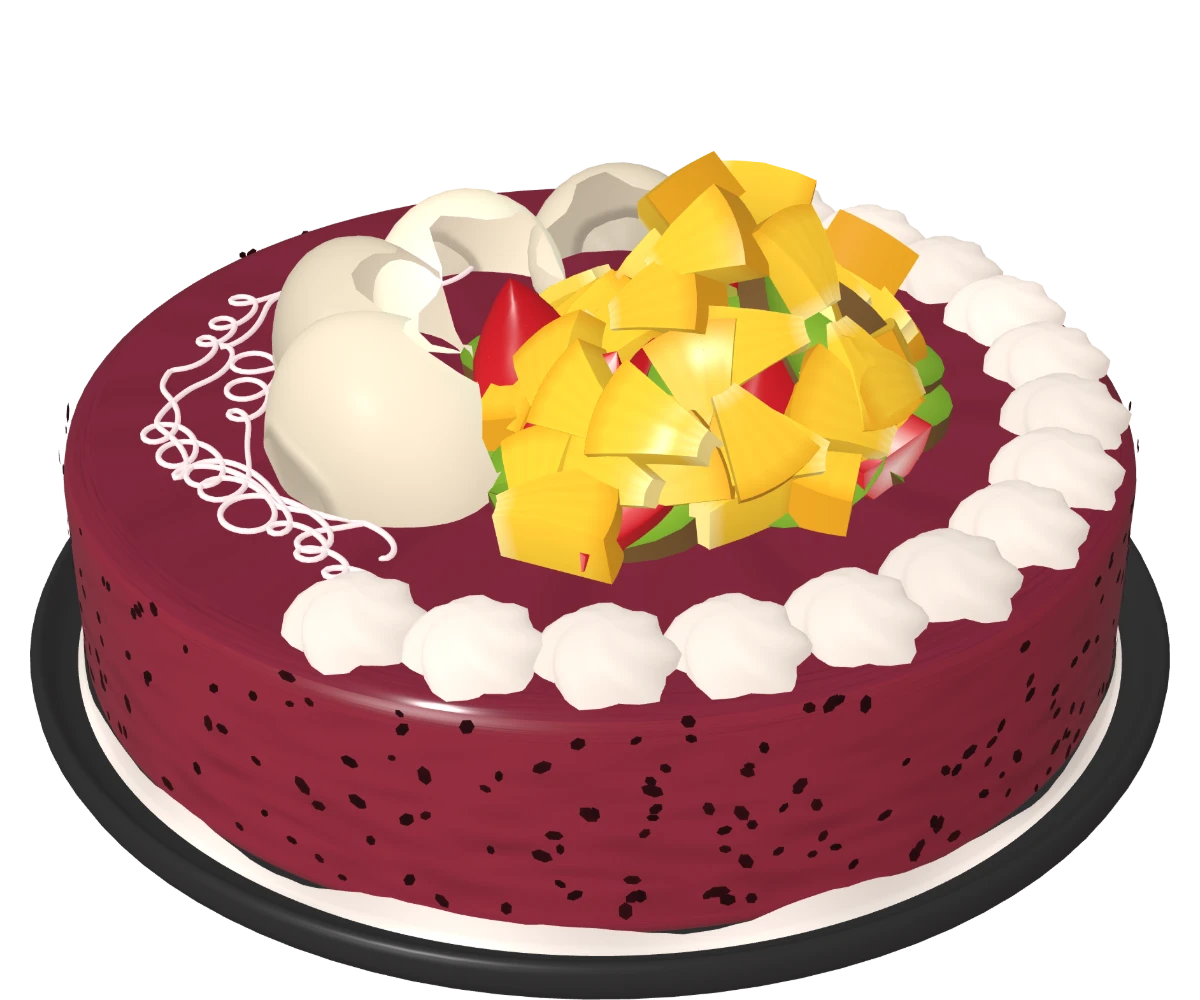
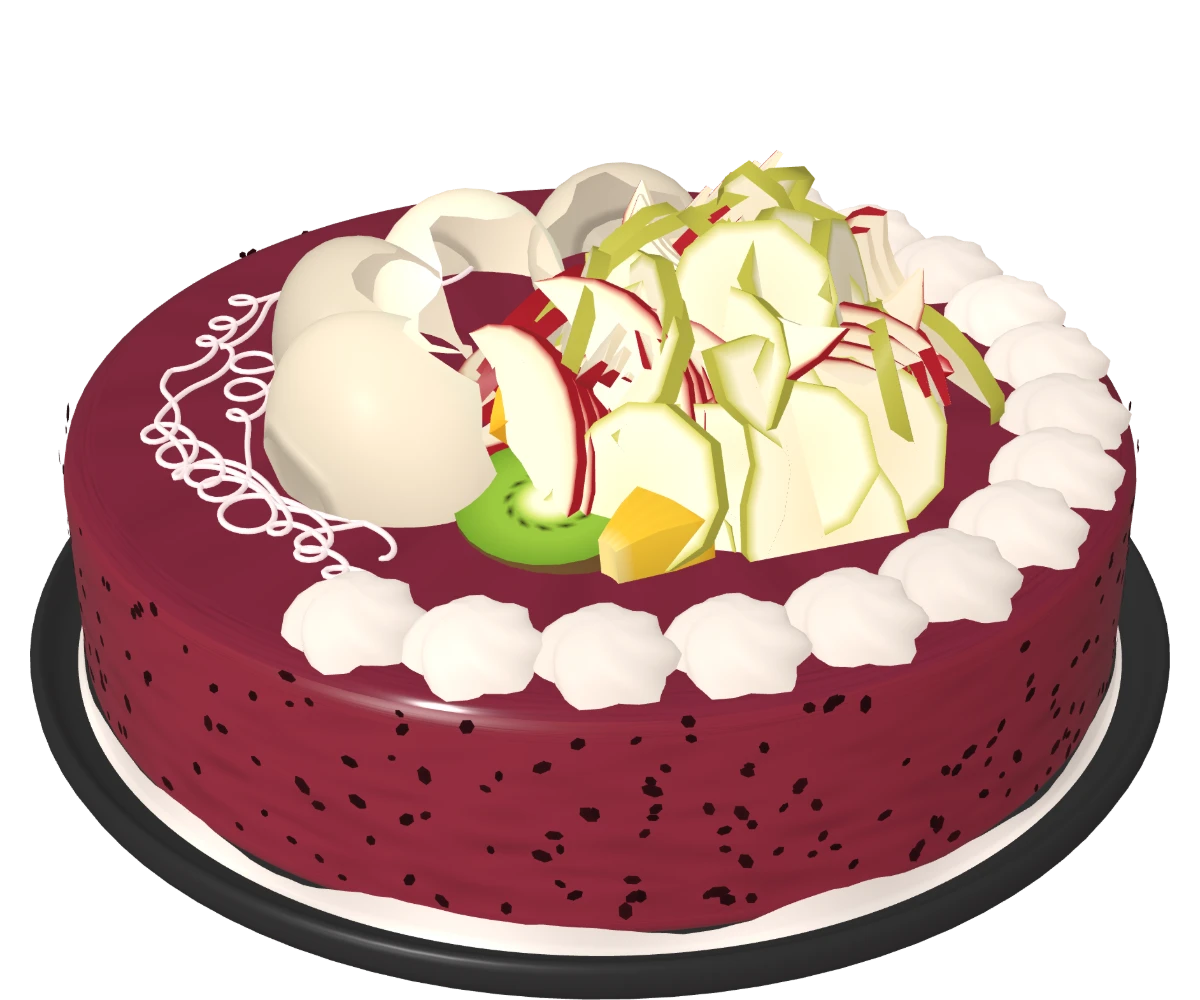
fix(catalogo): en queso y zarzamora mandan la manzana roja y la pera, en un montón de abanicos
Acomodo nuevo de fruta "fans": el mismo montón, pero las primeras frutas de la lista pesan más, van paradas y pueden ser más grandes. Las otras 12 imágenes del modelo no cambian (se regeneraron y salieron idénticas).

Changed region(s): [[0.37, 0.155, 0.8325, 0.589]]

diff --git a/frontend/src/three/fruit.ts b/frontend/src/three/fruit.ts
@@ -812,12 +812,13 @@ function place(context: Context, placement: FruitPlacement): boolean {
 }
 
 /** Reparte las frutas: la primera vuelta de la grande a la chica (las grandes abajo y al centro), luego en un orden al azar. */
-function kindSequence(fruits: readonly FruitKind[], random: () => number) {
+function kindSequence(fruits: readonly FruitKind[], random: () => number, weights?: readonly number[]) {
   let round = 0
   let queue: FruitKind[] = []
   return () => {
     if (queue.length === 0) {
-      queue = [...fruits]
+      // Con pesos (el montón de abanicos), desde la segunda vuelta cada fruta sale tantas veces como su peso.
+      queue = weights && round > 0 ? fruits.flatMap((kind, i) => Array.from({ length: weights[i] ?? 1 }, () => kind)) : [...fruits]
       if (round === 0) queue.sort((a, b) => pieceSize(KIND_PIECES[b][0]).radius - pieceSize(KIND_PIECES[a][0]).radius)
       else for (let i = queue.length - 1; i > 0; i--) {
         const j = Math.floor(random() * (i + 1))
@@ -853,14 +854,32 @@ function moundCenter(context: Context): [number, number] {
 }
 
 /**
+ * El montón de abanicos de la foto de queso y zarzamora: las primeras frutas de la lista mandan (salen `lead` veces más que las
+ * demás, en ese orden), sus piezas pueden ser más grandes en las capas de arriba (`share`) y van más paradas (`standing`), como las
+ * láminas de manzana roja y de pera de esa foto; las demás (fresa, kiwi, piña) llenan entre ellas.
+ */
+const FANS = { lead: [8, 2], share: 0.95, standing: 0.35, footprint: 0.42, spread: 0.9 }
+
+/**
+ * Lo que cambia el montón de abanicos; sin nada, el montón de siempre. `footprint` es la parte de su alcance que ocupan en el piso las
+ * piezas que mandan (una lámina parada se encima con la de junto, como en un abanico) y `spread`, cuánto pueden pasar las demás frutas
+ * de su parte del montón (en el de siempre, 1.4).
+ */
+type MoundOptions = { lead?: readonly number[]; share?: number; standing?: number; footprint?: number; spread?: number }
+
+/**
  * El montón: una capa de piezas casi planas en el centro y, encima, capas más chicas que se recargan hacia afuera; cada pieza de
  * arriba descansa sobre una plana de la capa de abajo.
  */
-function mound(context: Context, fruits: readonly FruitKind[]) {
+function mound(context: Context, fruits: readonly FruitKind[], options: MoundOptions = {}) {
   const { free, random, dense } = context
   const [cx, cz] = moundCenter(context)
   const { low, high } = denseParts(dense)
-  const next = kindSequence(fruits, random)
+  const weights = options.lead ? fruits.map((_, i) => options.lead?.[i] ?? 1) : undefined
+  const weightOf = (kind: FruitKind) => (weights ? weights[fruits.indexOf(kind)] : 1)
+  const totalWeight = weights ? weights.reduce((sum, weight) => sum + weight, 0) : fruits.length
+  const leading = (kind: FruitKind) => weightOf(kind) > 1
+  const next = kindSequence(fruits, random, weights)
   const share = lerp(MOUND_SHARE, DENSE.share, low)
   const packing = lerp(MOUND_PACKING, DENSE.packing, low) - DENSE_HIGH.packing * high
   const layers = Math.round(lerp(MOUND_LAYERS, DENSE.layers, low) + DENSE_HIGH.layers * high)
@@ -876,19 +895,27 @@ function mound(context: Context, fruits: readonly FruitKind[]) {
     let failures = 0
     // En el montón tupido ninguna fruta se adueña: una chica (el plátano, el physalis) no llena lo que no cupo de las grandes.
     const counts = new Map<FruitKind, number>()
-    const overused = (kind: FruitKind) => (counts.get(kind) ?? 0) > 2 + (1.4 * context.placements.length) / fruits.length
+    const spread = options.spread ?? 1.4
+    const overused = (kind: FruitKind) => (counts.get(kind) ?? 0) > 2 + (spread * weightOf(kind) * context.placements.length) / totalWeight
     while (failures < giveUp) {
       const kind = next()
-      if (dense > 0 && overused(kind)) continue
+      if (dense > 0 && overused(kind)) {
+        // En el montón de abanicos todas las frutas pueden quedar en su tope a la vez: saltarse una cuenta como falla, para que la
+        // capa termine. En el de siempre (`spread` de 1.4) eso no pasa y la cuenta sigue igual.
+        if (options.lead) failures++
+        continue
+      }
       let placed = false
       for (let attempt = 0; attempt < TRIES && !placed; attempt++) {
         // Un domo: abajo, las piezas se recargan hacia afuera más cuanto más lejos del centro; arriba, todas se paran más, como las
         // rebanadas de manzana de las fotos.
         const a = random() * Math.PI * 2
         const d = Math.sqrt(random())
-        const tilt = layer === 0 ? 0.05 + 0.2 * d : 0.4 + random() * 0.35 + DENSE.upright * low + DENSE_HIGH.upright * high
-        const piece = candidate(context, kind, tilt)
-        if (piece.reach > LARGEST_SHARE * Math.min(rx, rz)) continue
+        const lean = layer === 0 ? 0.05 + 0.2 * d : 0.4 + random() * 0.35 + DENSE.upright * low + DENSE_HIGH.upright * high
+        const tilt = options.standing && leading(kind) ? lean + options.standing : lean
+        const candidatePiece = candidate(context, kind, tilt)
+        const piece = options.footprint && leading(kind) ? { ...candidatePiece, reach: candidatePiece.reach * options.footprint } : candidatePiece
+        if (piece.reach > (options.share && leading(kind) ? options.share : LARGEST_SHARE) * Math.min(rx, rz)) continue
         // Dentro del montón la pieza completa, no solo su centro: el centro cae a un alcance de su orilla.
         const x = cx + Math.sin(a) * d * Math.max(0, rx - piece.reach)
         const z = cz + Math.cos(a) * d * Math.max(0, rz - piece.reach)
@@ -1131,7 +1158,7 @@ function stripes(context: Context, fruits: readonly FruitKind[], rosette: number
   return dividers
 }
 
-const SEEDS: Record<FruitLayoutKind, number> = { mound: 20261118, ring: 20261119, rows: 20261120, diagonal: 20261121, stripes: 20261122 }
+const SEEDS: Record<FruitLayoutKind, number> = { mound: 20261118, ring: 20261119, rows: 20261120, diagonal: 20261121, stripes: 20261122, fans: 20261123 }
 
 /**
  * La fruta del último piso de `shape`, en las coordenadas de ese piso; `null` sin fruta. `decoration` es la decoración ya colocada
@@ -1164,6 +1191,7 @@ export function fruitLayout(shape: CakeShape, decoration?: TierDecoration, avoid
   const rosette = decoration?.parts.find((part) => part.shape === 'rosette')?.placements[0]?.s[0] ?? 1
   const layouts: Record<FruitLayoutKind, () => FruitDividers | void> = {
     mound: () => mound(context, fruits),
+    fans: () => mound(context, fruits, FANS),
     ring: () => ring(context, fruits),
     rows: () => rows(context, fruits),
     diagonal: () => rows(context, fruits, DIAGONAL),

diff --git a/frontend/e2e/cake-sample-details.spec.ts b/frontend/e2e/cake-sample-details.spec.ts
@@ -449,7 +449,7 @@ test('a half-filled pair or an unknown detail from the API is dropped, not drawn
   expect(details.edgeSize).toBe(1)
 })
 
-test('queso y zarzamora: big eggs on the back arc, the fruit moved away from them, the scribble on the left without rosettes and the seeds on the side', async ({ page }) => {
+test('queso y zarzamora: big eggs on the back arc, a heap of apple and pear fans moved away from them, the scribble on the left without rosettes and the seeds on the side', async ({ page }) => {
   const result = await page.evaluate(
     async ({ urls, tier }) => {
       const { shellLayout, sampleDetailsLayout, sampleDecoration, SCRIBBLE_ARC } = await import(urls.details)
@@ -460,7 +460,7 @@ test('queso y zarzamora: big eggs on the back arc, the fruit moved away from the
         festoons: false,
         stand: false,
         decoration: { kind: 'rosettes', main: '#f6eee3', accent: '#f6eee3' },
-        topping: { kind: 'fruit', layout: 'mound', fruits: ['apple', 'pear', 'pineapple', 'kiwi', 'strawberry'], unitsPerCm: 0.068, density: 3 },
+        topping: { kind: 'fruit', layout: 'fans', fruits: ['apple', 'pear', 'strawberry', 'kiwi', 'pineapple'], unitsPerCm: 0.068, density: 1.8 },
         details: {
           shells: { place: 'back', colors: ['#f1e6cc'] },
           drizzle: { kind: 'scribble', color: '#f6e4e4' },
@@ -488,6 +488,7 @@ test('queso y zarzamora: big eggs on the back arc, the fruit moved away from the
           eggs.every((egg: { p: number[]; width: number }) => Math.hypot(piece.p[0] - egg.p[0], piece.p[2] - egg.p[2]) >= egg.width * 1.05 + piece.reach - 1e-6),
         ),
         fruit: fruit.placements.length,
+        kinds: fruit.placements.reduce((counts: Record<string, number>, piece: { kind: string }) => ({ ...counts, [piece.kind]: (counts[piece.kind] ?? 0) + 1 }), {}),
         meanX: fruit.placements.reduce((sum: number, piece: { p: number[] }) => sum + piece.p[0], 0) / fruit.placements.length,
         gap: layout.edgeGap,
         scribbleArc: SCRIBBLE_ARC,
@@ -508,6 +509,10 @@ test('queso y zarzamora: big eggs on the back arc, the fruit moved away from the
   expect(result.fruit).toBeGreaterThan(10)
   expect(result.clear).toBe(true)
   expect(result.meanX).toBeGreaterThan(0.05)
+  // Mandan la manzana y la pera (más de la mitad de las piezas); la piña es poca.
+  expect(result.kinds.apple + result.kinds.pear).toBeGreaterThan(result.fruit / 2)
+  expect(result.kinds.apple).toBeGreaterThan(result.kinds.pineapple)
+  expect(result.kinds.pineapple).toBeLessThan(result.fruit / 4)
   // El garabato: abierto, sobre la tapa plana y dentro de su arco; sin rosetones de atrás al frente por la izquierda.
   expect(result.closed).toBe(false)
   expect(result.scribble.every((p: { a: number; r: number }) => p.r < TIER.radius - EDGE && p.a > result.scribbleArc.from - 0.3 && p.a < result.scribbleArc.to + 0.3)).toBe(true)

diff --git a/frontend/src/three/cakeShape.ts b/frontend/src/three/cakeShape.ts
@@ -182,9 +182,10 @@ export type FruitKind = 'strawberry' | 'kiwi' | 'peach' | 'apple' | 'grape' | 's
 /**
  * Cómo se acomoda la fruta: `mound`, un montón al centro; `ring`, una vuelta junto a la orilla, por dentro del borde de duya;
  * `rows`, en filas de una fruta cada una; `diagonal`, esas filas giradas, en diagonal sobre toda la tapa (flan y zarzamora);
- * `stripes`, una franja de cada fruta de atrás hacia el frente, con una hilera de rosetones entre cada dos (blueberry).
+ * `stripes`, una franja de cada fruta de atrás hacia el frente, con una hilera de rosetones entre cada dos (blueberry); `fans`, un
+ * montón donde mandan las primeras frutas de la lista, en láminas paradas como abanicos (queso y zarzamora).
  */
-export type FruitLayoutKind = 'mound' | 'ring' | 'rows' | 'diagonal' | 'stripes'
+export type FruitLayoutKind = 'mound' | 'ring' | 'rows' | 'diagonal' | 'stripes' | 'fans'
 
 /**
  * Lo que va sobre la tapa del último piso además del mensaje y la oblea (tanda 4b): por ahora, fruta fresca. Solo para las

diff --git a/frontend/src/models/catalog.ts b/frontend/src/models/catalog.ts
@@ -435,7 +435,7 @@ const FRUIT_KINDS: Record<FruitKind, true> = {
   pineapple: true,
   apple_slice: true,
 }
-const FRUIT_LAYOUTS: Record<FruitLayoutKind, true> = { mound: true, ring: true, rows: true, diagonal: true, stripes: true }
+const FRUIT_LAYOUTS: Record<FruitLayoutKind, true> = { mound: true, ring: true, rows: true, diagonal: true, stripes: true, fans: true }
 
 const isFruitKind = (value: unknown): value is FruitKind => typeof value === 'string' && Object.hasOwn(FRUIT_KINDS, value)
 

diff --git a/backend/core_pasteleria/migrations/0063_sample_photo_choices.py b/backend/core_pasteleria/migrations/0063_sample_photo_choices.py
@@ -1,9 +1,10 @@
 # Generated by Django 5.2.18 on 2026-11-22 04:09
 """Lo que piden las fotos de blueberry, choco-pingüino, queso y zarzamora y flan y zarzamora en la imagen del catálogo.
 
-Solo esquema: la piña y la manzana en rodajas, la fruta en filas diagonales y en franjas con rosetones entre ellas, el garabato
-de hilos en un lado de la tapa, las conchas grandes en la mitad de atrás o cubriendo toda la tapa, las virutas grandes y tupidas y
-las semillas de la mermelada en el costado. La `0064` siembra las muestras. Solo los dibuja la imagen del catálogo, nunca «Diseña tu pastel».
+Solo esquema: la piña y la manzana en rodajas; la fruta en filas diagonales, en franjas con rosetones entre ellas y en un
+montón de abanicos donde mandan las primeras frutas de la lista; el garabato de hilos en un lado de la tapa; las conchas
+grandes en la mitad de atrás o cubriendo toda la tapa; las virutas grandes y tupidas y las semillas de la mermelada en el
+costado. La `0064` siembra las muestras. Solo los dibuja la imagen del catálogo, nunca «Diseña tu pastel».
 """
 
 import django.contrib.postgres.fields
@@ -29,7 +30,7 @@ class Migration(migrations.Migration):
         migrations.AlterField(
             model_name='productsampledesign',
             name='fruit_layout',
-            field=models.CharField(blank=True, choices=[('mound', 'Montón al centro'), ('ring', 'Anillo junto a la orilla'), ('rows', 'En filas'), ('diagonal', 'En filas diagonales que llenan la tapa'), ('stripes', 'En franjas de atrás hacia el frente, con rosetones entre ellas')], help_text='Vacío: sin fruta. La fruta solo va en la imagen del catálogo; no se pide. En las muestras de la semilla, observado en la foto; la pastelería puede corregirlo.', max_length=10, verbose_name='cómo va la fruta'),
+            field=models.CharField(blank=True, choices=[('mound', 'Montón al centro'), ('ring', 'Anillo junto a la orilla'), ('rows', 'En filas'), ('diagonal', 'En filas diagonales que llenan la tapa'), ('stripes', 'En franjas de atrás hacia el frente, con rosetones entre ellas'), ('fans', 'Montón de abanicos: las primeras frutas de la lista son las que más hay, paradas')], help_text='Vacío: sin fruta. La fruta solo va en la imagen del catálogo; no se pide. En las muestras de la semilla, observado en la foto; la pastelería puede corregirlo.', max_length=10, verbose_name='cómo va la fruta'),
         ),
         migrations.AlterField(
             model_name='productsampledesign',

diff --git a/backend/core_pasteleria/migrations/0064_seed_blueberry_pinguino_zarzamora_samples.py b/backend/core_pasteleria/migrations/0064_seed_blueberry_pinguino_zarzamora_samples.py
@@ -82,15 +82,15 @@ SAMPLES = {
         },
     ),
     # Mermelada de zarzamora brillante con sus semillas en el costado y la tapa; crema blanca abajo; un garabato de hilos blancos en el
-    # lado izquierdo; huevos grandes de chocolate blanco en la mitad de atrás; fruta tupida del centro hacia la derecha (manzana roja,
-    # pera, piña, kiwi y fresa) y rosetones solo por el frente y la derecha, alrededor de la fruta.
+    # lado izquierdo; huevos grandes de chocolate blanco en la mitad de atrás; un montón de abanicos del centro hacia la derecha, donde
+    # mandan la manzana roja en láminas y la pera, con fresa, algo de kiwi y poca piña; rosetones solo por el frente y la derecha.
     "tres-leches-con-queso-y-zarzamora": (
         "rosetones",
         {
             "coverage_color": "#7D2434",
             "decoration_color": "#F6EEE3",
-            "fruit_layout": "mound",
-            "fruits": ["apple", "pear", "pineapple", "kiwi", "strawberry"],
+            "fruit_layout": "fans",
+            "fruits": ["apple", "pear", "strawberry", "kiwi", "pineapple"],
             "top_color": "#7A2438",
             "top_glossy": True,
             "side_glossy": True,
@@ -104,7 +104,7 @@ SAMPLES = {
             "shell_color": "#F1E6CC",
             "side_bits": "seeds",
             "side_bits_color": "#2A0B10",
-            "fruit_density": 3.0,
+            "fruit_density": 1.8,
         },
     ),
     # Mermelada de zarzamora casi negra y muy brillante en la tapa y el costado; rosetones blancos alrededor; fruta en filas diagonales

diff --git a/backend/tests/test_blueberry_pinguino_zarzamora_samples.py b/backend/tests/test_blueberry_pinguino_zarzamora_samples.py
@@ -40,7 +40,7 @@ def sample_of(slug):
 
 def test_the_new_options_are_the_ones_the_photos_need():
     assert {"pineapple", "apple_slice"} <= set(FruitKind.values)
-    assert {"stripes", "diagonal"} <= set(FruitLayout.values)
+    assert {"stripes", "diagonal", "fans"} <= set(FruitLayout.values)
     assert "scribble" in SampleDrizzle.values
     assert {"back", "full"} <= set(SampleShells.values)
     assert {"shavings", "seeds"} <= set(SampleSideBits.values)
@@ -71,7 +71,9 @@ def test_what_each_photo_shows_is_in_its_sample():
     assert (pinguino.shells, pinguino.side_bits, pinguino.side_texture, pinguino.fruit_layout) == ("full", "shavings", "spatula", "")
     assert pinguino.dusting_color
     queso = sample_of("tres-leches-con-queso-y-zarzamora")
-    assert (queso.shells, queso.drizzle, queso.side_bits, queso.fruit_layout) == ("back", "scribble", "seeds", "mound")
+    assert (queso.shells, queso.drizzle, queso.side_bits, queso.fruit_layout) == ("back", "scribble", "seeds", "fans")
+    # En el montón de abanicos mandan las primeras frutas de la lista: la manzana roja y la pera, como en la foto.
+    assert queso.fruits[:2] == ["apple", "pear"]
     flan = sample_of("tres-leches-con-flan-y-zarzamora")
     assert (flan.fruit_layout, flan.side_band_color != "", flan.top_glossy) == ("diagonal", True, True)
     assert "apple_slice" in flan.fruits

diff --git a/backend/core_pasteleria/models.py b/backend/core_pasteleria/models.py
@@ -280,6 +280,7 @@ class FruitLayout(models.TextChoices):
     ROWS = "rows", "En filas"
     DIAGONAL = "diagonal", "En filas diagonales que llenan la tapa"
     STRIPES = "stripes", "En franjas de atrás hacia el frente, con rosetones entre ellas"
+    FANS = "fans", "Montón de abanicos: las primeras frutas de la lista son las que más hay, paradas"
 
 
 class FruitKind(models.TextChoices):
